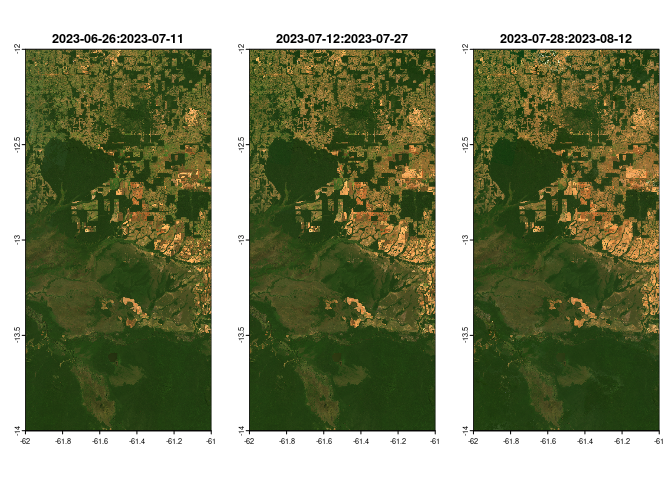
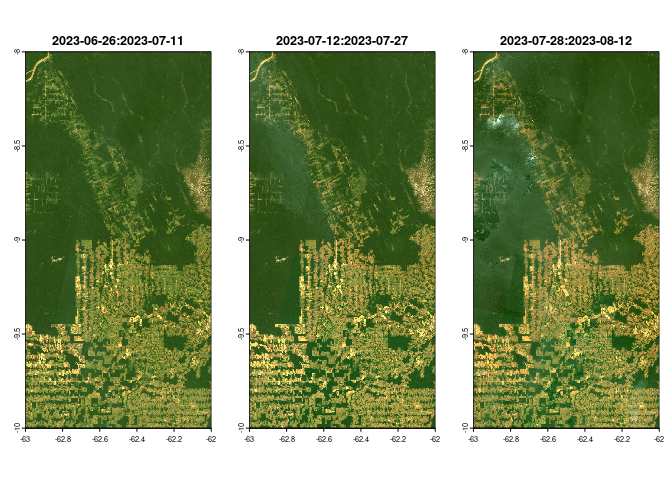
readme

diff --git a/README.md b/README.md
@@ -18,8 +18,7 @@ days.
 
 This package interacts with the [GLAD ARD
 API](https://www.glad.umd.edu/ard/home#download) to download and process
-the data. **The package is currently in development and only provides
-functionality for returning the tile URLs**.
+the data.
 
 ## Installation
 
@@ -38,55 +37,101 @@ for an example location in Rondônia, Brazil.
 ``` r
 library(ardglad)
 
-rondonia_eg <- sf::st_point(c(-61.604, -12.864)) |>
+rondonia_eg <- sf::st_point(c(-62.625, -8.989)) |>
   sf::st_sfc(crs = 4326) |>
-  sf::st_sf() |>
   sf::st_buffer(20000)
 
-rondonia_urls <- ard_glad_urls(rondonia_eg, "2023-07-01", "2023-07-30")
+ron_urls <- ard_glad_urls(
+  rondonia_eg,
+  start_date = "2023-07-01",
+  end_date = "2023-07-30"
+)
 
-print(rondonia_urls)
+print(ron_urls)
 #> 
 #> ── < ARD GLAD urls >
 #> 
 #> ── [[1]] 2023-06-26:2023-07-11 ─────────────────────────────────────────────────
-#> https://glad.umd.edu/dataset/glad_ard2/12S/061W_12S/1001.tif
-#> https://glad.umd.edu/dataset/glad_ard2/13S/061W_13S/1001.tif
+#> https://glad.umd.edu/dataset/glad_ard2/09S/062W_09S/1001.tif
+#> https://glad.umd.edu/dataset/glad_ard2/08S/062W_08S/1001.tif
 #> 
 #> ── [[2]] 2023-07-12:2023-07-27 ─────────────────────────────────────────────────
-#> https://glad.umd.edu/dataset/glad_ard2/12S/061W_12S/1002.tif
-#> https://glad.umd.edu/dataset/glad_ard2/13S/061W_13S/1002.tif
+#> https://glad.umd.edu/dataset/glad_ard2/09S/062W_09S/1002.tif
+#> https://glad.umd.edu/dataset/glad_ard2/08S/062W_08S/1002.tif
 #> 
 #> ── [[3]] 2023-07-28:2023-08-12 ─────────────────────────────────────────────────
-#> https://glad.umd.edu/dataset/glad_ard2/12S/061W_12S/1003.tif
-#> https://glad.umd.edu/dataset/glad_ard2/13S/061W_13S/1003.tif
+#> https://glad.umd.edu/dataset/glad_ard2/09S/062W_09S/1003.tif
+#> https://glad.umd.edu/dataset/glad_ard2/08S/062W_08S/1003.tif
 ```
 
-And now let’s download the data and plot it.
+And now let’s download the data and plot it. Note that although an
+object of class `ard_glad` is returned, in reality this is just a list
+of SpatRasters and can be coerced back to a list with `as.list`.
 
 ``` r
-rg <- ard_glad_download(rondonia_urls, "rondonia_glad")
+ron_ras <- ard_glad_download(ron_urls, "rondonia_glad")
 #> ℹ Downloading files for time period: 2023-06-26:2023-07-11
 #> ℹ Downloading files for time period: 2023-07-12:2023-07-27
 #> ℹ Downloading files for time period: 2023-07-28:2023-08-12
 
-# plot the result
+print(ron_ras)
+#> 
+#> ── < ARD GLAD rasters>
+#> 
+#> ── [[1]] 2023-06-26:2023-07-11 ─────────────────────────────────────────────────
+#> class       : SpatRaster 
+#> dimensions  : 8004, 4004, 8  (nrow, ncol, nlyr)
+#> resolution  : 0.00025, 0.00025  (x, y)
+#> extent      : -63.0005, -61.9995, -10.0005, -7.9995  (xmin, xmax, ymin, ymax)
+#> coord. ref. : lon/lat WGS 84 (EPSG:4326) 
+#> source      : rondonia_glad_2023_06_26_2023_07_11.vrt 
+#> names       : B, G, R, N, S1, S2, ...
+#> 
+#> ── [[2]] 2023-07-12:2023-07-27 ─────────────────────────────────────────────────
+#> class       : SpatRaster 
+#> dimensions  : 8004, 4004, 8  (nrow, ncol, nlyr)
+#> resolution  : 0.00025, 0.00025  (x, y)
+#> extent      : -63.0005, -61.9995, -10.0005, -7.9995  (xmin, xmax, ymin, ymax)
+#> coord. ref. : lon/lat WGS 84 (EPSG:4326) 
+#> source      : rondonia_glad_2023_07_12_2023_07_27.vrt 
+#> names       : B, G, R, N, S1, S2, ...
+#> 
+#> ── [[3]] 2023-07-28:2023-08-12 ─────────────────────────────────────────────────
+#> class       : SpatRaster 
+#> dimensions  : 8004, 4004, 8  (nrow, ncol, nlyr)
+#> resolution  : 0.00025, 0.00025  (x, y)
+#> extent      : -63.0005, -61.9995, -10.0005, -7.9995  (xmin, xmax, ymin, ymax)
+#> coord. ref. : lon/lat WGS 84 (EPSG:4326) 
+#> source      : rondonia_glad_2023_07_28_2023_08_12.vrt 
+#> names       : B, G, R, N, S1, S2, ...
+
 par(mfrow = c(1, 3))
-p <- mapply(
-  \(x, y) {
-    terra::plotRGB(x,
-      r = 3, g = 2, b = 1,
-      zlim = c(0, 7000),
-      zcol = TRUE,
-      stretch = "lin",
-      axes = TRUE,
-      mar = c(2, 2, 2, 1),
-      main = y
-    )
-  },
-  rg,
-  names(rg)
-)
+plot(ron_ras)
 ```
 
 <img src="man/figures/README-download-data-1.png" width="100%" />
+
+We can also query specific moments through time, by specifying multiple
+`start_date` values, like so:
+
+``` r
+ron_urls_97_23 <- ard_glad_urls(
+  rondonia_eg, c("1997-06-30", "2010-06-01", "2023-06-30")
+)
+```
+
+Now we can download these data and mask clouds, shadows and haze, ready
+for further analysis:
+
+``` r
+ron_ras_97_23_masked <- ard_glad_download(ron_urls_97_23, "rondonia_glad") |>
+  ard_glad_mask()
+#> ℹ Downloading files for time period: 1997-06-26:1997-07-11
+#> ℹ Downloading files for time period: 2010-05-25:2010-06-09
+#> ℹ Downloading files for time period: 2023-06-26:2023-07-11
+
+par(mfrow = c(1, 3))
+plot(ron_ras_97_23_masked)
+```
+
+<img src="man/figures/README-cloud-mask-1.png" width="100%" />
